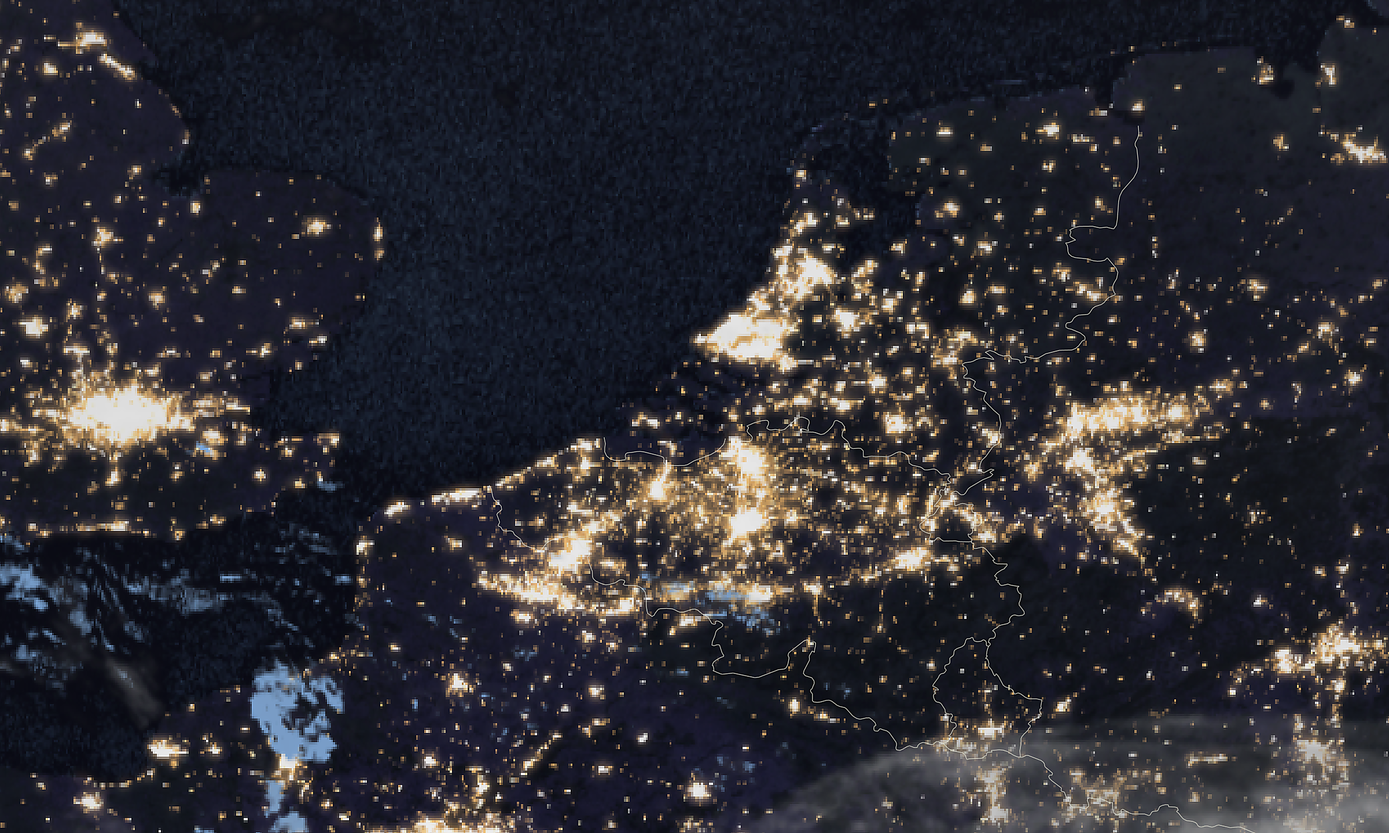
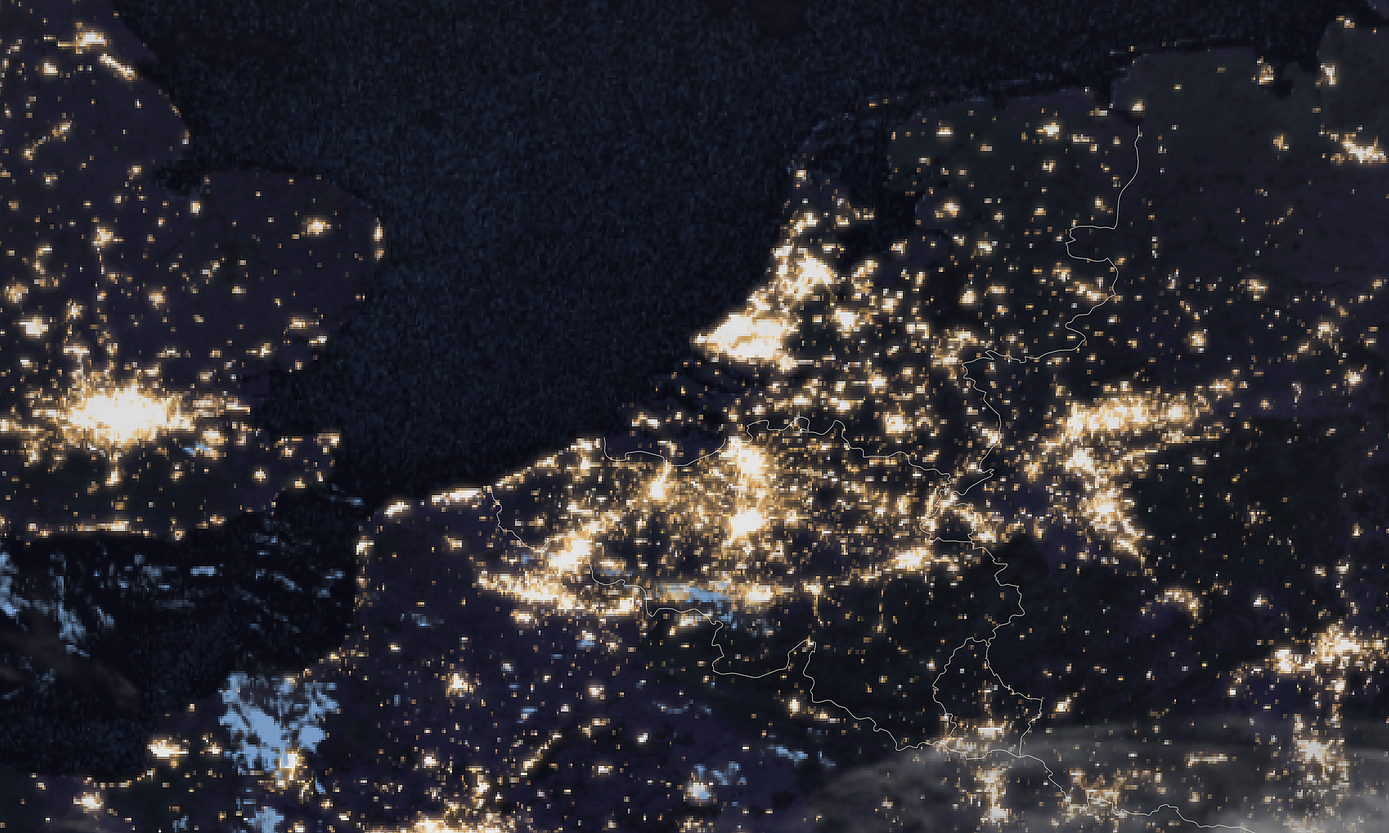
MTG Benelux satellietbeeld update 2026-04-29 02:00

diff --git a/mtg_benelux_meta.js b/mtg_benelux_meta.js
@@ -1,2 +1,2 @@
 const MTG_BENELUX_PRODUCT = "mtg_fd:rgb_geocolour";
-const MTG_BENELUX_TIJD = "2026-04-28T23:20:00Z";
+const MTG_BENELUX_TIJD = "2026-04-28T23:40:00Z";
